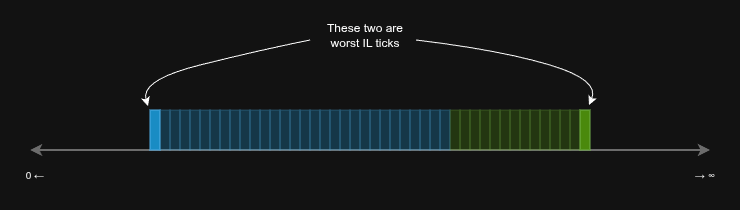
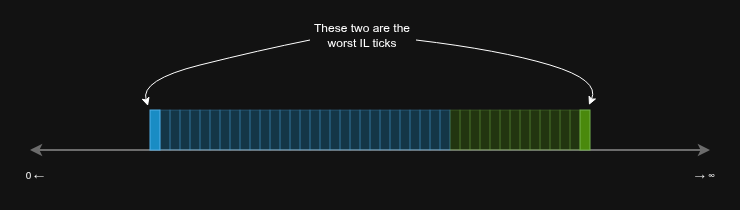
add ep 3.1

Changed region(s): [[0.4041, 0.1143, 0.5595, 0.2286]]

diff --git a/docs/drifty-by-example/ep3.1-worst-tick-recovery.md b/docs/drifty-by-example/ep3.1-worst-tick-recovery.md
@@ -1,0 +1,14 @@
+# Drifty By Example | Ep. 3.1 — Notes on Worst Tick Recovery
+
+In [Episode 3](./ep3-il-recovery.md) we discussed how Drifty constantly works on resolving the impermanent loss, by using fees to recover the **worst** IL tick.
+To keep that episode easy to digest, we didn't dive into the details of "how exactly" this **worst** IL tick is recovered, what is the exact mechanic?
+
+Let's discuss that in detail, because this is an important topic. First of all, what's the **worst** IL tick? As you remember, Drifty has two AMMs - one for each token in the trading pair. Similar to how a human Market Maker in a CEX accumulates an inventory asset to sell later, Drifty AMMs accumulate IL in the opposite token. AMMs track their allocated ticks in real-time, including IL ticks. They know at what price they did sold each tick. The **worst** IL tick is the tick of impermanent loss (opposite asset) that was sold at the worst price compared to the current. Because of how Drifty's liquidity is always drifting with the current price, the **worst** IL tick is always the one on the edge of the IL.
+
+Each AMM has its own **worst** IL tick. ALL Drifty's liquidity is always in between those two **worst** ticks. The system actively monitors all allocated ranges of ticks and stretches or compresses them in such a way to always match the worst IL tick of the opposite AMM.
+
+![Fig. 1 - Worst IL ticks illustration.](./imgs/ep3/8.png)
+
+The main job of an AMM is to increase the chance of next trade recovering the IL, little by little.
+
+For the simplicity of our example, let's only unwrap the situation from the perspective of a single AMM in a pool (the other AMM does the same thing, but with respect to his own situation). Let's also say, that this pool has constant size fees of 1%. So, if someone buys the whole tick, they pay 1% of that tick's size as a fee on top. Let's also assume that the difference in price between two neibouring ticks is also 1%. So, if someone buys the whole tick, buying the next tick will be 1% more expensive for them.
